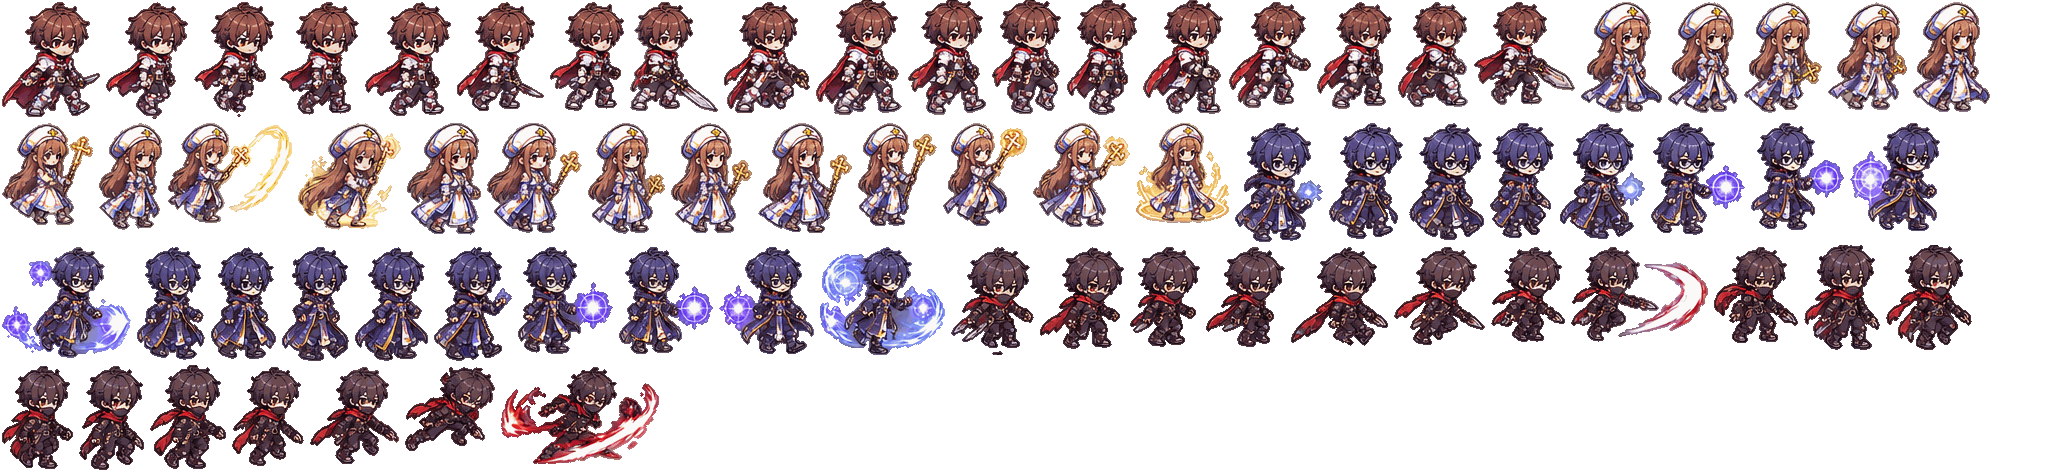
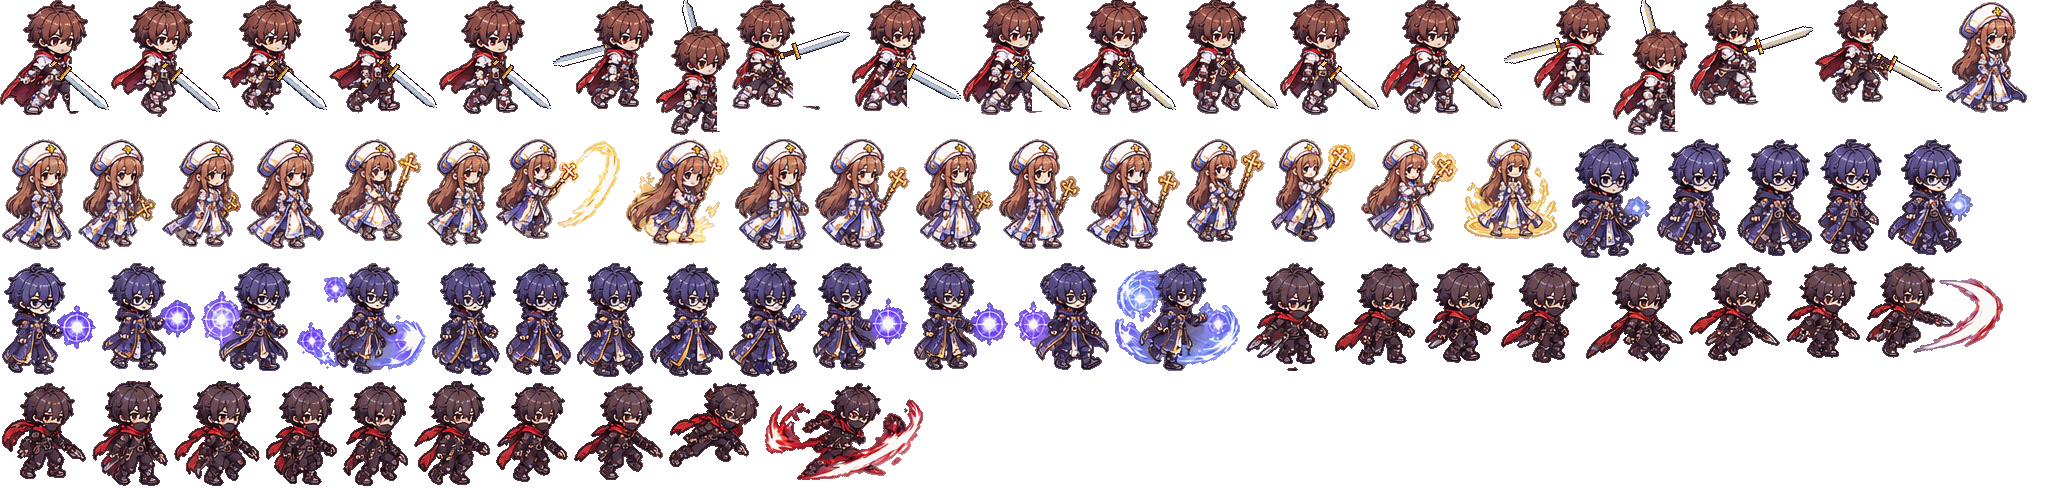
숨긴 항목을 관리자(app_admins)에게만 목록에 보이게 (🔒 숨김 표시) + 이세계 용사: 기사 대검 (걷기·공격 프레임에 그려 넣음)
Claude-Session: https://claude.ai/code/session_01EKLRBZGv2CKJG1R7ZhWQ4P

diff --git a/src/components/GameList.tsx b/src/components/GameList.tsx
@@ -6,7 +6,8 @@ import { useApp } from "./AppProvider";
 import { LikeButton } from "./LikeButton";
 import { AdSlot } from "./AdSlot";
 import { useLikes } from "@/lib/likes";
-import { GENRES, KINDS, KIND_INDEX, entryPath, formatScore, itemsOf, type Genre, type Kind } from "@/lib/games";
+import { GENRES, KINDS, KIND_INDEX, entryPath, formatScore, hiddenItemsOf, itemsOf, type Genre, type Kind } from "@/lib/games";
+import { useIsAdmin } from "@/lib/useAdmin";
 import { KIND_SEO } from "@/lib/seo";
 import { fetchMyScores, type ScoreRow } from "@/lib/supabase";
 
@@ -28,11 +29,13 @@ const KIND_DESC = { game: "kindDesc_game", tool: "kindDesc_tool", app: "kindDesc
 export function GameList({ children, kind = "game" }: { children?: ReactNode; kind?: Kind }) {
   const { t, lang, user } = useApp();
   const { counts: likes } = useLikes();
-  // 하트 많은 순 (같으면 원래 순서). 하트 수를 불러오기 전에는 원래 순서
+  const admin = useIsAdmin(user?.id);
+  // 하트 많은 순 (같으면 원래 순서). 하트 수를 불러오기 전에는 원래 순서. 관리자는 숨긴 항목을 맨 뒤에 함께 봄
   const ITEMS = useMemo(() => {
     const base = itemsOf(kind);
-    return base.map((g, i) => ({ g, i, n: likes[g.id] ?? 0 })).sort((a, b) => b.n - a.n || a.i - b.i).map((x) => x.g);
-  }, [kind, likes]);
+    const sorted = base.map((g, i) => ({ g, i, n: likes[g.id] ?? 0 })).sort((a, b) => b.n - a.n || a.i - b.i).map((x) => x.g);
+    return admin ? sorted.concat(hiddenItemsOf(kind)) : sorted;
+  }, [kind, likes, admin]);
   const isGame = kind === "game";
   const hero = kind === "game" ? null : KIND_SEO[kind][lang];
   const [filter, setFilter] = useState<Genre | "all">("all");
@@ -152,6 +155,7 @@ export function GameList({ children, kind = "game" }: { children?: ReactNode; ki
             >
               <div className="thumb">
                 <div className="badges">
+                  {g.hidden && <span className="badge hidden-item">🔒 {lang === "ko" ? "숨김 · 관리자만" : "Hidden · admin"}</span>}
                   {g.online && <span className="badge online">● {t("badgeOnline")}</span>}
                   {g.boards && <span className="badge rank">🏆 {t("badgeRanking")}</span>}
                 </div>
@@ -165,6 +169,7 @@ export function GameList({ children, kind = "game" }: { children?: ReactNode; ki
                 <div className="left">
                   <h3>
                     <span className="idx">{n}</span>
+                    {g.hidden && <span className="hidden-tag">🔒</span>}
                     {title}
                   </h3>
                   <p>{g.desc[lang]}</p>

diff --git a/src/lib/useAdmin.ts b/src/lib/useAdmin.ts
@@ -1,0 +1,20 @@
+"use client";
+// 로그인한 사람이 관리자(app_admins)인지 — 0038_online_admin.sql 의 is_app_admin()
+import { useEffect, useState } from "react";
+import { sb } from "@/lib/supabase";
+
+const cache = new Map<string, boolean>();
+
+export function useIsAdmin(userId: string | null | undefined): boolean {
+  const [admin, setAdmin] = useState(() => (userId ? cache.get(userId) ?? false : false));
+  useEffect(() => {
+    if (!userId) { setAdmin(false); return; }
+    if (cache.has(userId)) { setAdmin(cache.get(userId)!); return; }
+    const db = sb();
+    if (!db) return;
+    let off = false;
+    db.rpc("is_app_admin").then(({ data }) => { cache.set(userId, data === true); if (!off) setAdmin(data === true); });
+    return () => { off = true; };
+  }, [userId]);
+  return admin;
+}

diff --git a/src/app/globals.css b/src/app/globals.css
@@ -158,6 +158,8 @@ h1.title { font-family: "Gothic A1", sans-serif; font-weight: 300; font-size: cl
 .badge { font-size: 10.5px; font-weight: 800; padding: 4px 8px; border-radius: 6px; backdrop-filter: blur(4px); letter-spacing: .02em; }
 .badge.online { background: rgba(77, 219, 199, .9); color: #05221d; }
 .badge.rank { background: rgba(255, 184, 77, .92); color: #251703; }
+.badge.hidden-item { background: rgba(30, 30, 40, .88); color: #ffd36a; border: 1px solid rgba(255, 211, 106, .6); }
+.hidden-tag { margin-right: 4px; font-size: .85em; }
 .card-best { font-size: 11.5px; color: var(--gold); font-weight: 700; }
 
 /* 넓은 화면 한 줄 5개 → 4 → 3 → 2 */

diff --git a/src/lib/games.ts b/src/lib/games.ts
@@ -506,6 +506,10 @@ export const GAMES: Game[] = CATALOG.filter((g) => !g.hidden);
 export function kindOf(g: Game): Kind {
   return g.kind ?? "game";
 }
+/** 숨긴 항목 (관리자 화면에서만 목록에 보임) */
+export function hiddenItemsOf(kind: Kind): Game[] {
+  return CATALOG.filter((g) => g.hidden && (g.kind ?? "game") === kind);
+}
 /** 구분별로 보이는 항목 */
 export function itemsOf(kind: Kind): Game[] {
   return GAMES.filter((g) => kindOf(g) === kind);
